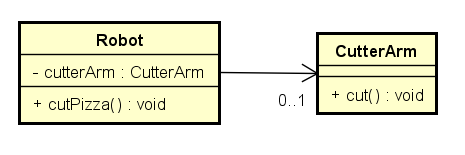
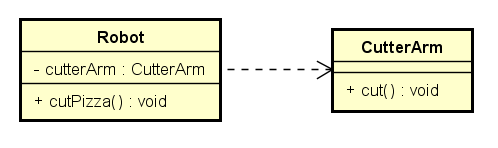
Update commit

Changed region(s): [[0.0301, 0.1081, 0.9634, 0.8378], [0.7226, 0.2703, 0.9032, 0.3784], [0.1806, 0.1892, 0.3312, 0.2973]]

diff --git a/src/dip/certo/ModeloCorreto.kt b/src/dip/certo/ModeloCorreto.kt
@@ -7,23 +7,18 @@ package dip.certo
 class ModeloCorreto {
 
     interface Tool{
-
         fun cutterArm()
         //Example
         //fun knifeArm()
     }
 
-    class Robot{
+    class Robot(private val tool:Tool){
 
         fun print() = println("I cut with any tool given to me")
+        fun cutPizza() = tool.cutterArm()
+        //Example
+        //fun cutPizza() = tool.knifeArm()
 
-        class Cutter(private val tool:Tool){
-
-            fun cutPizza() = tool.cutterArm()
-            //Example
-            //fun cutPizza() = tool.knifeArm()
-
-        }
     }
 
 }

diff --git a/src/dip/errado/ModeloErrado.kt b/src/dip/errado/ModeloErrado.kt
@@ -10,15 +10,13 @@ class ModeloErrado {
 
         private val cutterArm:CutterArm = CutterArm()
 
-        fun cutPizza(){
-            cutterArm.cut()
-            println("I cut pizza with my pizza cutter arm")
-        }
+        fun cutPizza() = cutterArm.cut()
 
     }
+
     class CutterArm{
 
-        fun cut(){}
+        fun cut() = println("I cut pizza with my pizza cutter arm")
 
     }
 

diff --git a/src/dip/exemplos/Dispositivos.kt b/src/dip/exemplos/Dispositivos.kt
@@ -28,9 +28,7 @@ class Dispositivos{
     }
     class Interruptor(private val dispositivo:Dispositivo){
 
-        fun adionarDispositivo(){
-            dispositivo.acionar()
-        }
+        fun adionarDispositivo() = dispositivo.acionar()
 
     }
 }
